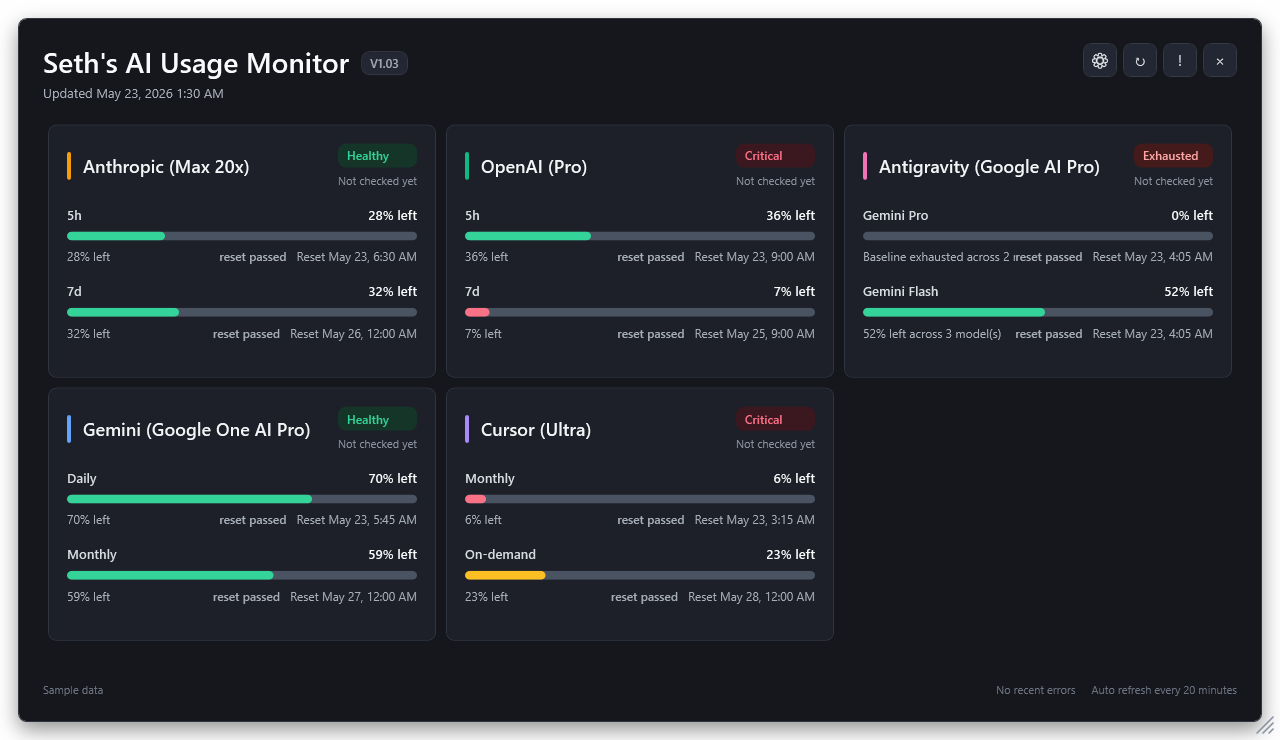
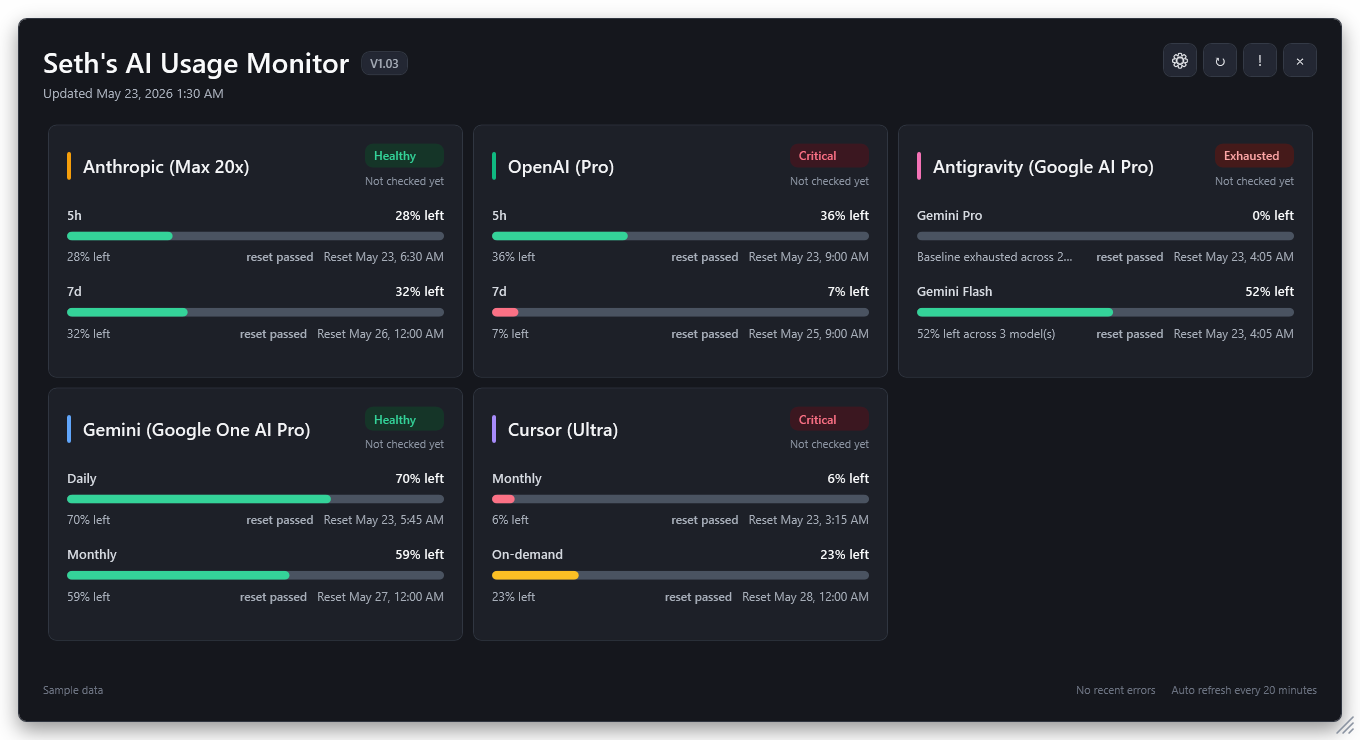
Normalize README screenshot scaling

diff --git a/Views/UsageOverlayWindow.xaml b/Views/UsageOverlayWindow.xaml
@@ -484,8 +484,10 @@
                                                                         <ColumnDefinition Width="Auto" />
                                                                     </Grid.ColumnDefinitions>
                                                                     <TextBlock Text="{Binding LimitText}"
+                                                                               Margin="0,0,12,0"
                                                                                Foreground="#A8AFBA"
-                                                                               FontSize="12" />
+                                                                               FontSize="12"
+                                                                               TextTrimming="CharacterEllipsis" />
                                                                     <StackPanel Grid.Column="1"
                                                                                 Orientation="Horizontal"
                                                                                 HorizontalAlignment="Right">

diff --git a/Services/ScreenshotService.cs b/Services/ScreenshotService.cs
@@ -3,6 +3,7 @@ using System.Windows;
 using System.Windows.Media;
 using System.Windows.Media.Imaging;
 using System.Windows.Threading;
+using AIUsageMonitor.Models;
 using AIUsageMonitor.ViewModels;
 using AIUsageMonitor.Views;
 
@@ -41,6 +42,8 @@ internal static class ScreenshotService
         {
             window.Height = requestedHeight.Value;
         }
+
+        window.ApplyUiScalePercent(AppSettings.DefaultUiScalePercent);
 
         try
         {

diff --git a/AGENTS.md b/AGENTS.md
@@ -12,9 +12,9 @@
   - `dotnet run --project .\tools\AIUsageMonitor.Diagnostics -- refresh --fake --scenario cancel --cancel-after-ms 500`
 - Optional live diagnostics are opt-in only: `dotnet run --project .\tools\AIUsageMonitor.Diagnostics -- refresh --live --timeout-seconds 120`.
 - README screenshots are generated from `usage.fake.json` with the app's built-in screenshot mode, which defaults to 100% UI scale. Regenerate them with:
-  - `dotnet run --project .\AIUsageMonitor.csproj -- --screenshot .\docs\screenshot-full.png --screenshot-size 1280x740`
+  - `dotnet run --project .\AIUsageMonitor.csproj -- --screenshot .\docs\screenshot-full.png --screenshot-size 1360x740`
   - `dotnet run --project .\AIUsageMonitor.csproj -- --screenshot .\docs\screenshot-compact.png --screenshot-size 1360x136`
-  - `dotnet run --project .\AIUsageMonitor.csproj -- --screenshot .\docs\screenshot-mini-strip.png --screenshot-size 760x60`
+  - `dotnet run --project .\AIUsageMonitor.csproj -- --screenshot .\docs\screenshot-mini-strip.png --screenshot-size 1360x60`
   - `Copy-Item .\docs\screenshot-full.png .\docs\screenshot.png -Force`
 - When the user says to bump the version, increment it by 0.01, for example `V1.02` becomes `V1.03`. Update both `Services\AppMetadata.cs` and the README download section's current version and latest updated date.
 - `package-release.bat` publishes a self-contained win-x64 single-file build, signs it, verifies the signature, copies `build\SethsAIUsageMonitor.exe`, and creates `artifacts\SethsAIUsageMonitor-win-x64.zip`.
